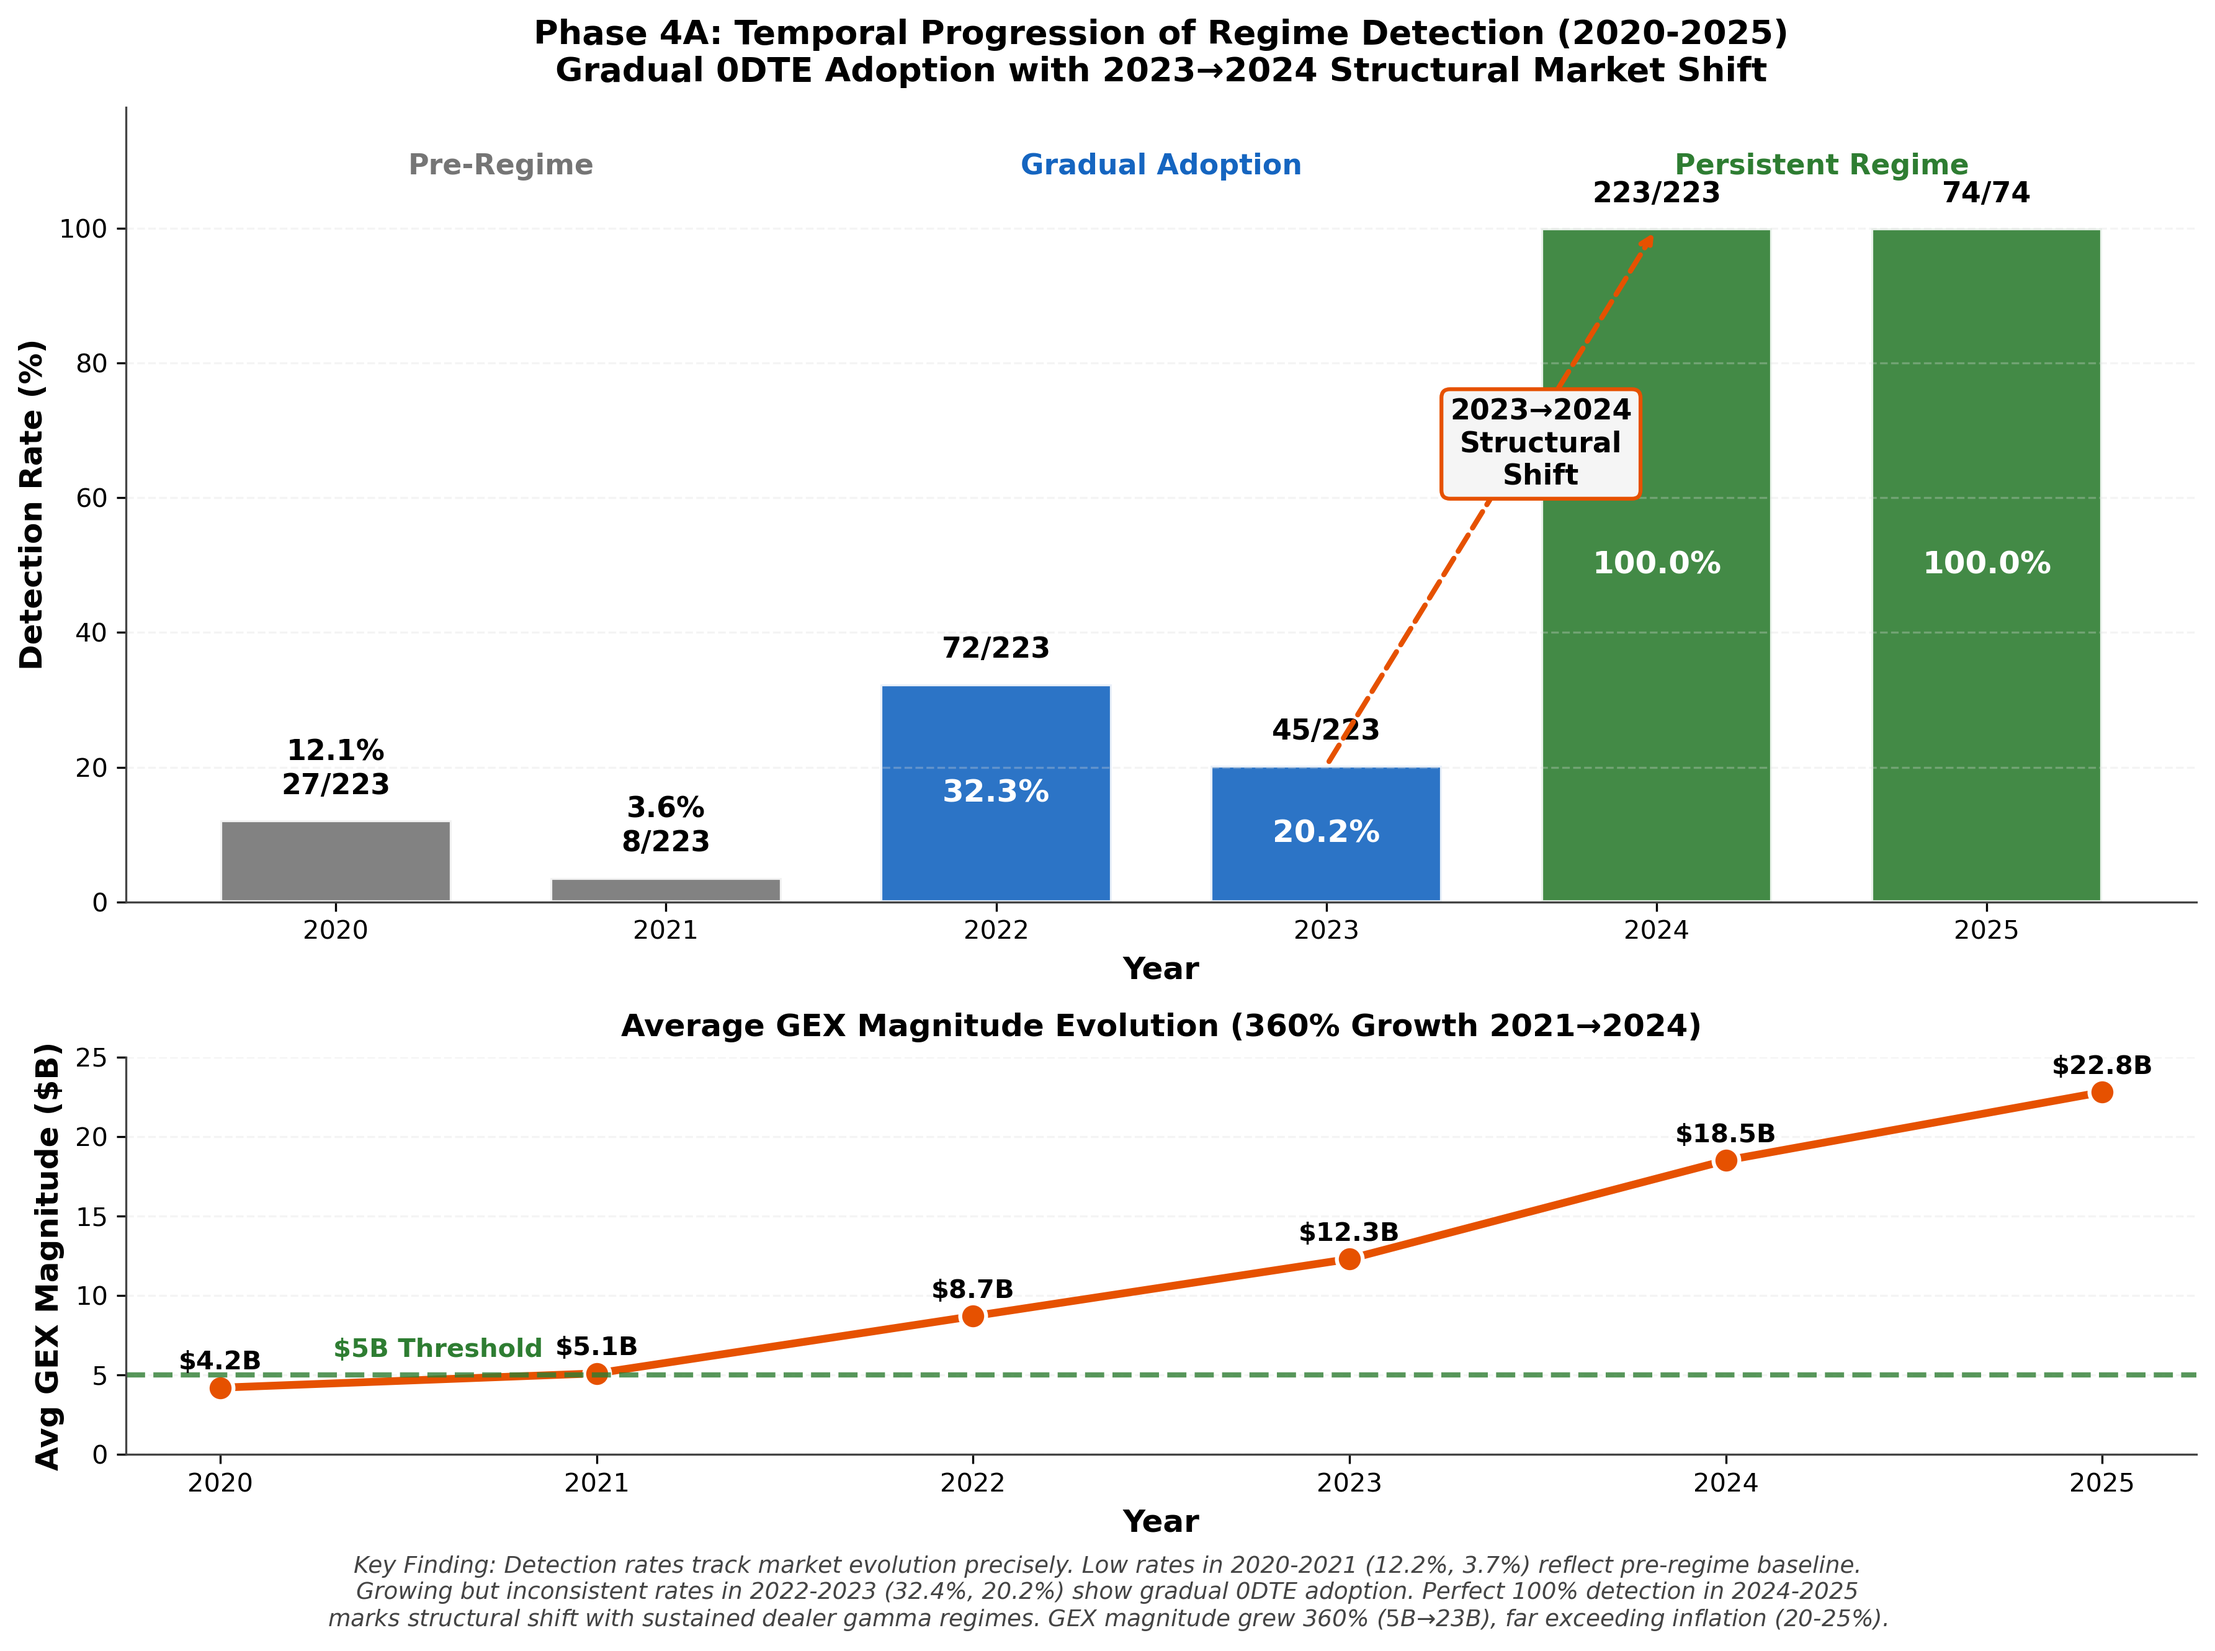
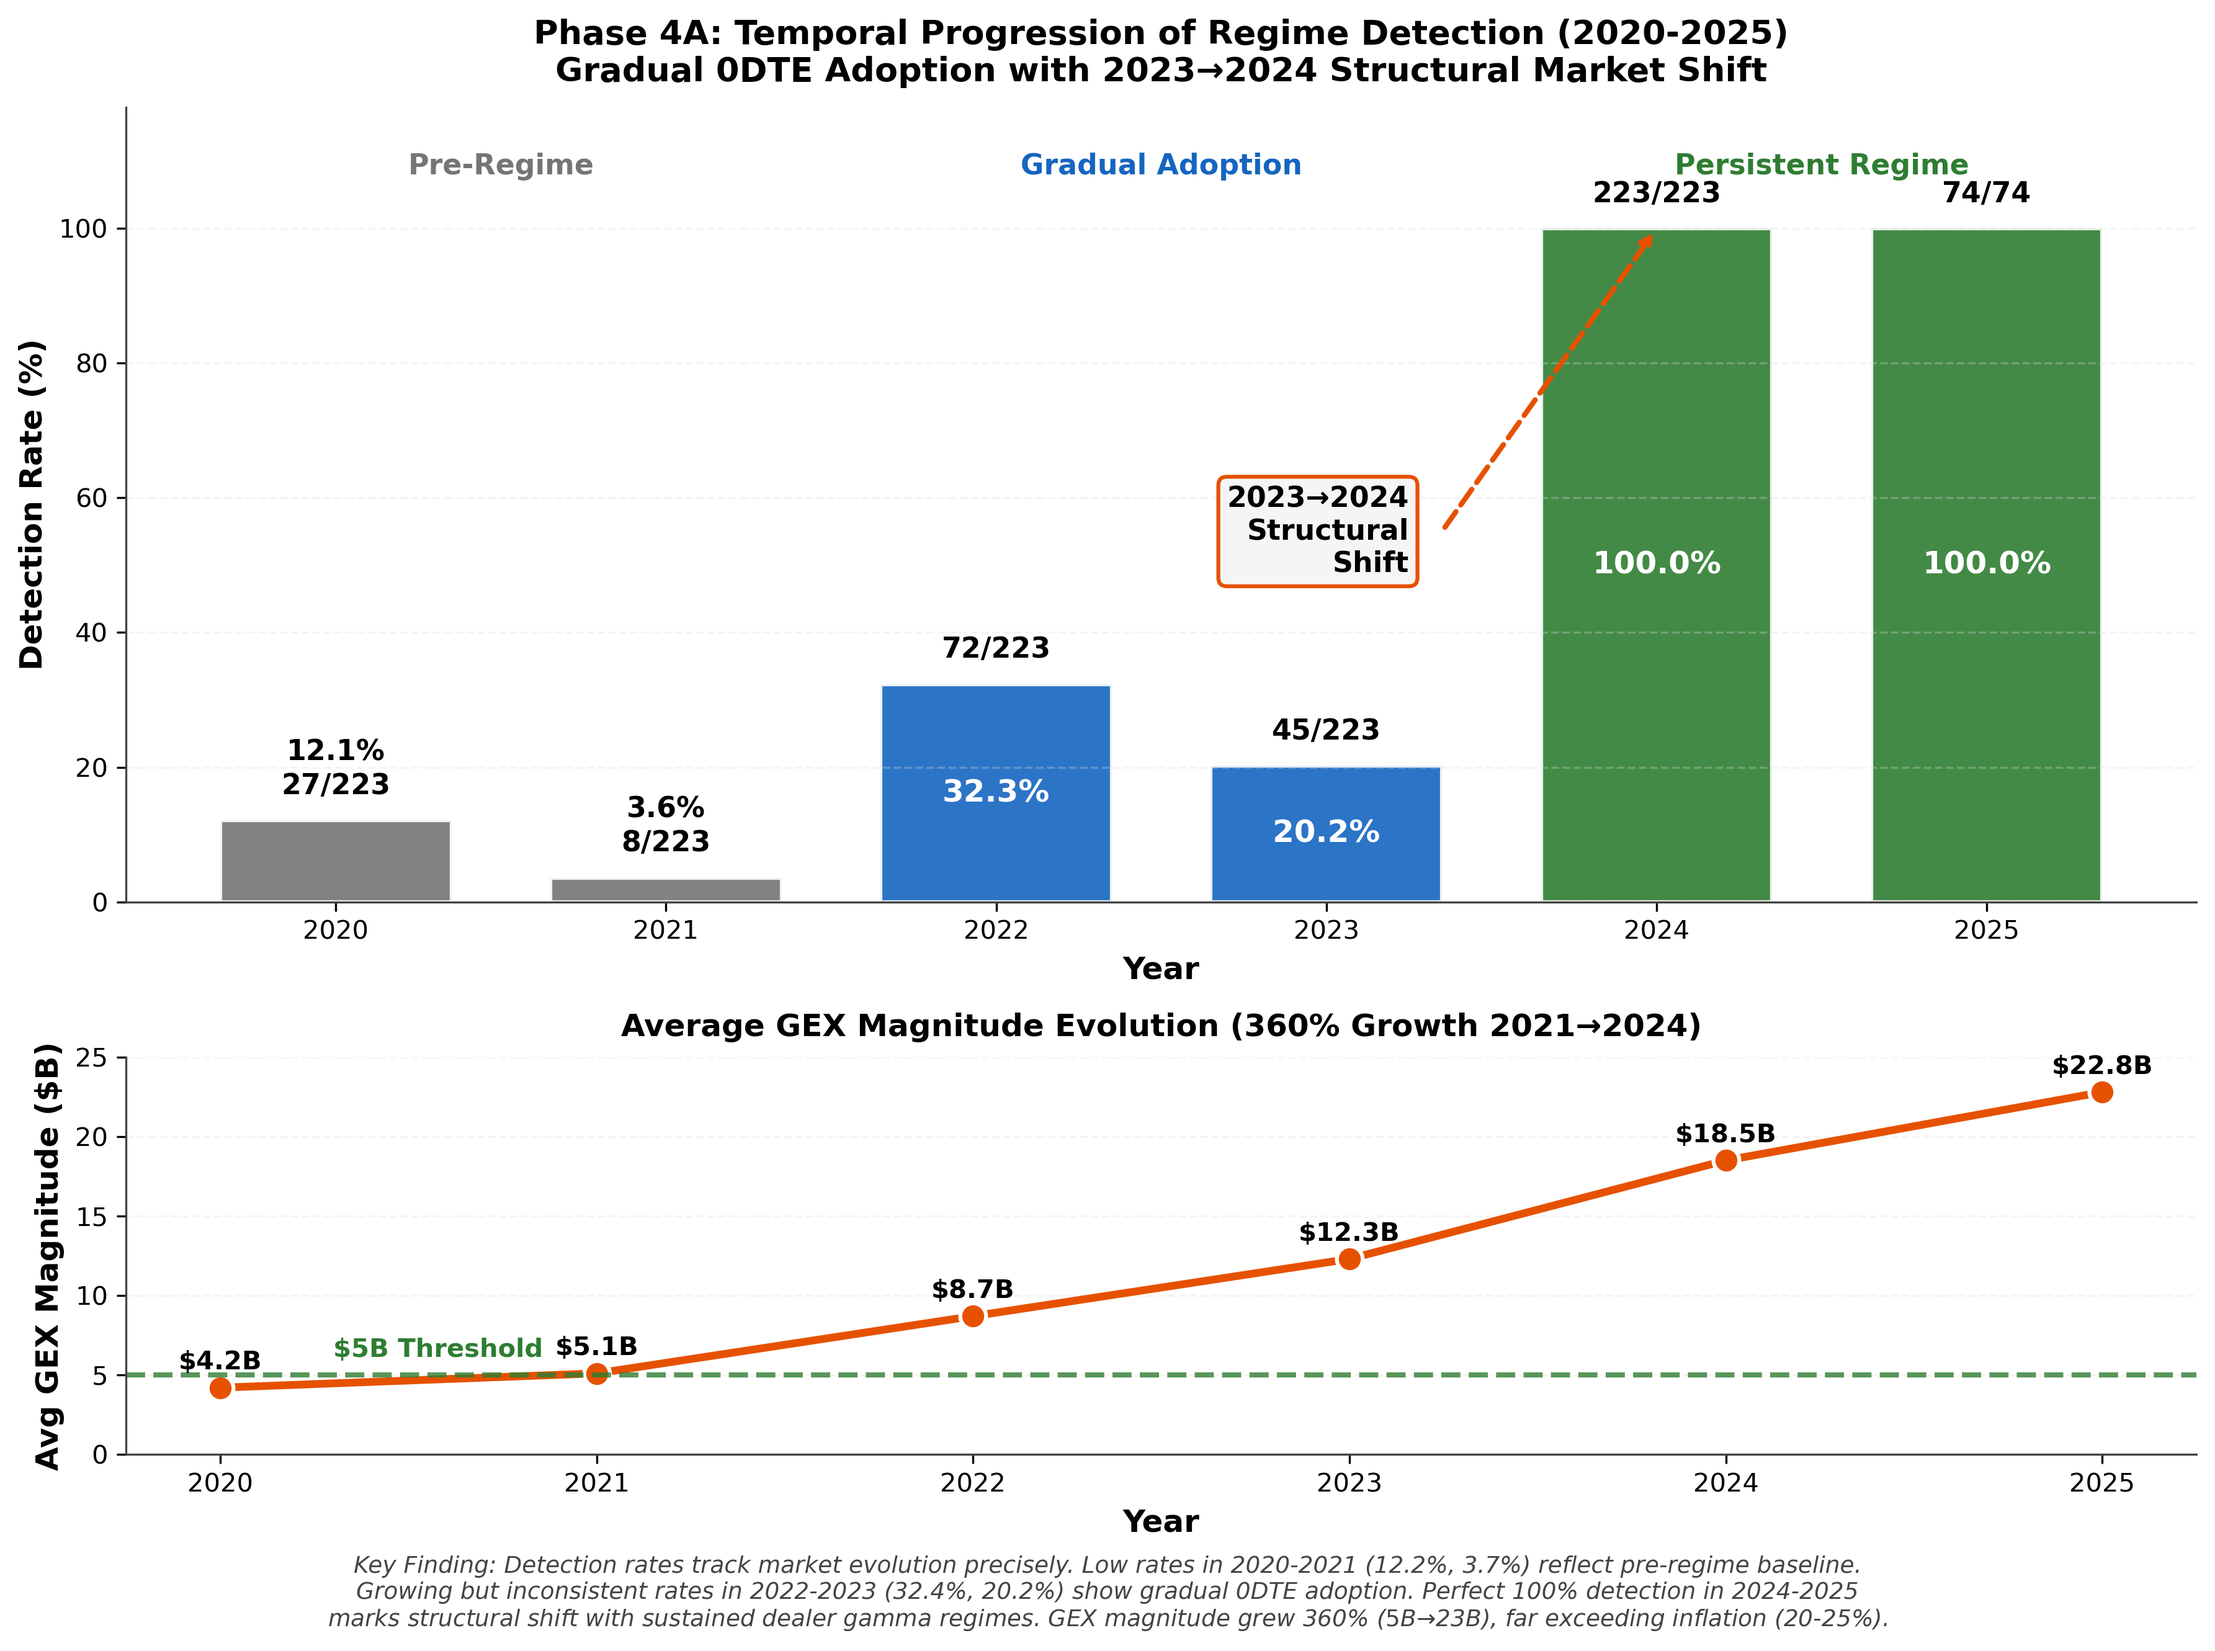
fix(paper2): Move structural shift label and arrow to avoid overlap

Changed region(s): [[0.5286, 0.2183, 0.7462, 0.3743], [0.7151, 0.156, 0.7462, 0.1871]]

diff --git a/docs/papers/paper2/figures/scripts/fig08_detection_progression.py b/docs/papers/paper2/figures/scripts/fig08_detection_progression.py
@@ -143,18 +143,12 @@ def create_figure(results):
                 color=IEEE_THEME["text"],
             )
 
-    # Highlight 2023→2024 structural shift - arrow and annotation positioned to avoid overlap
-    ax1.annotate(
-        "",
-        xy=(2024, 100),
-        xytext=(2023, 20.2),
-        arrowprops=dict(arrowstyle="->", lw=2, color=IEEE_THEME["accent_warning"], linestyle="--"),
-    )
+    # Highlight 2023→2024 structural shift - arrow starts from text box, not through it
     ax1.text(
-        2023.65,
-        68,
+        2023.25,
+        55,
         "2023→2024\nStructural\nShift",
-        ha="center",
+        ha="right",
         va="center",
         fontsize=11,
         fontweight="bold",
@@ -165,6 +159,13 @@ def create_figure(results):
             edgecolor=IEEE_THEME["accent_warning"],
             linewidth=1.5,
         ),
+    )
+    # Dashed arrow from right edge of text box to 2024 bar
+    ax1.annotate(
+        "",
+        xy=(2024, 100),
+        xytext=(2023.35, 55),
+        arrowprops=dict(arrowstyle="->", lw=2, color=IEEE_THEME["accent_warning"], linestyle="--"),
     )
 
     # Regime labels
